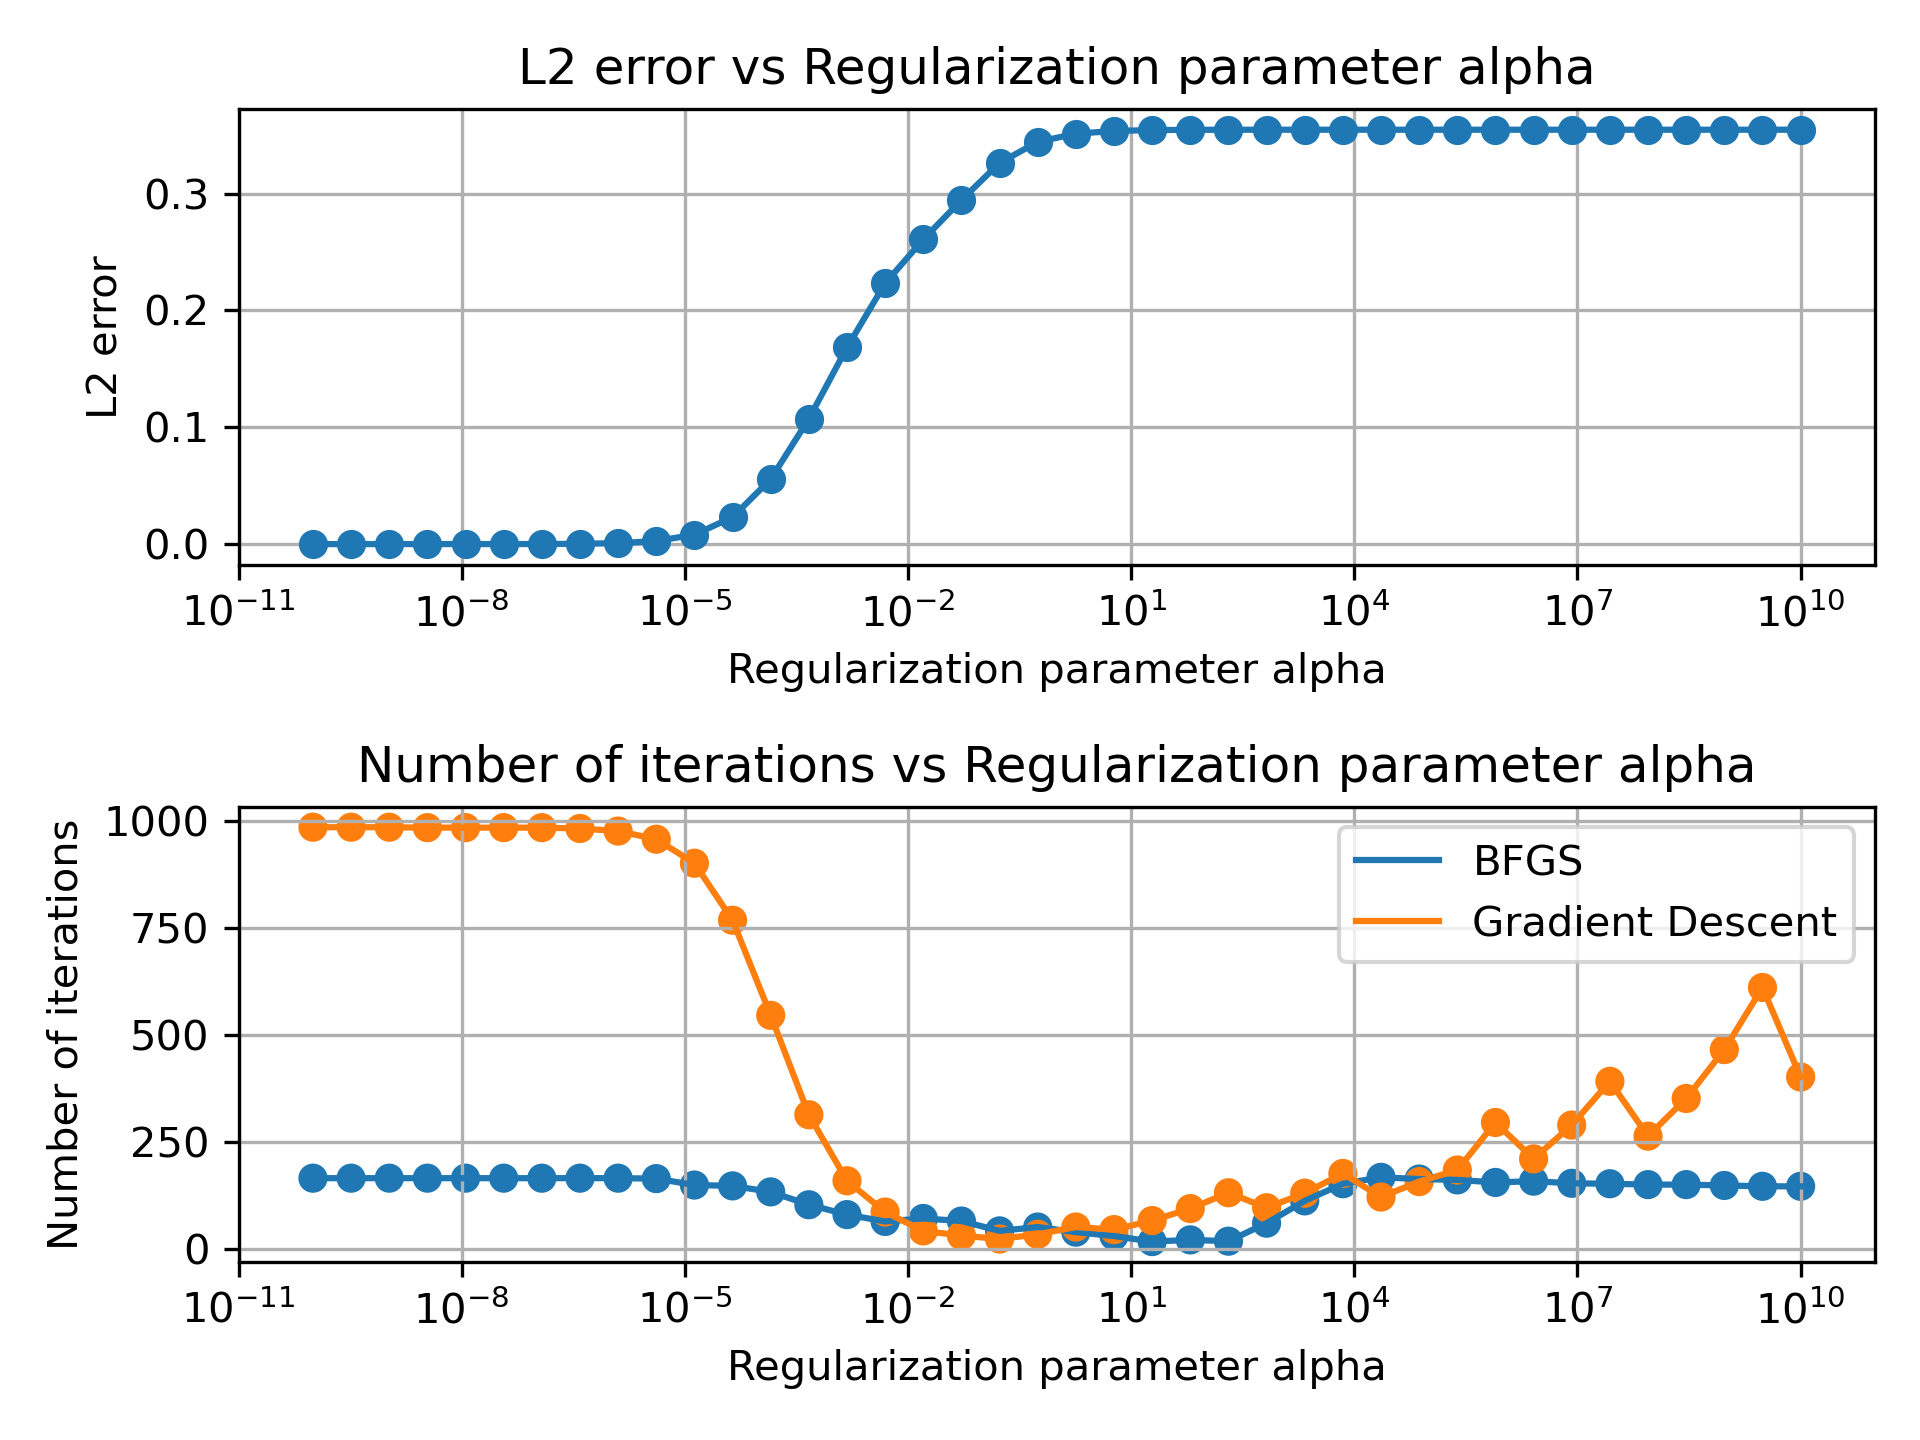
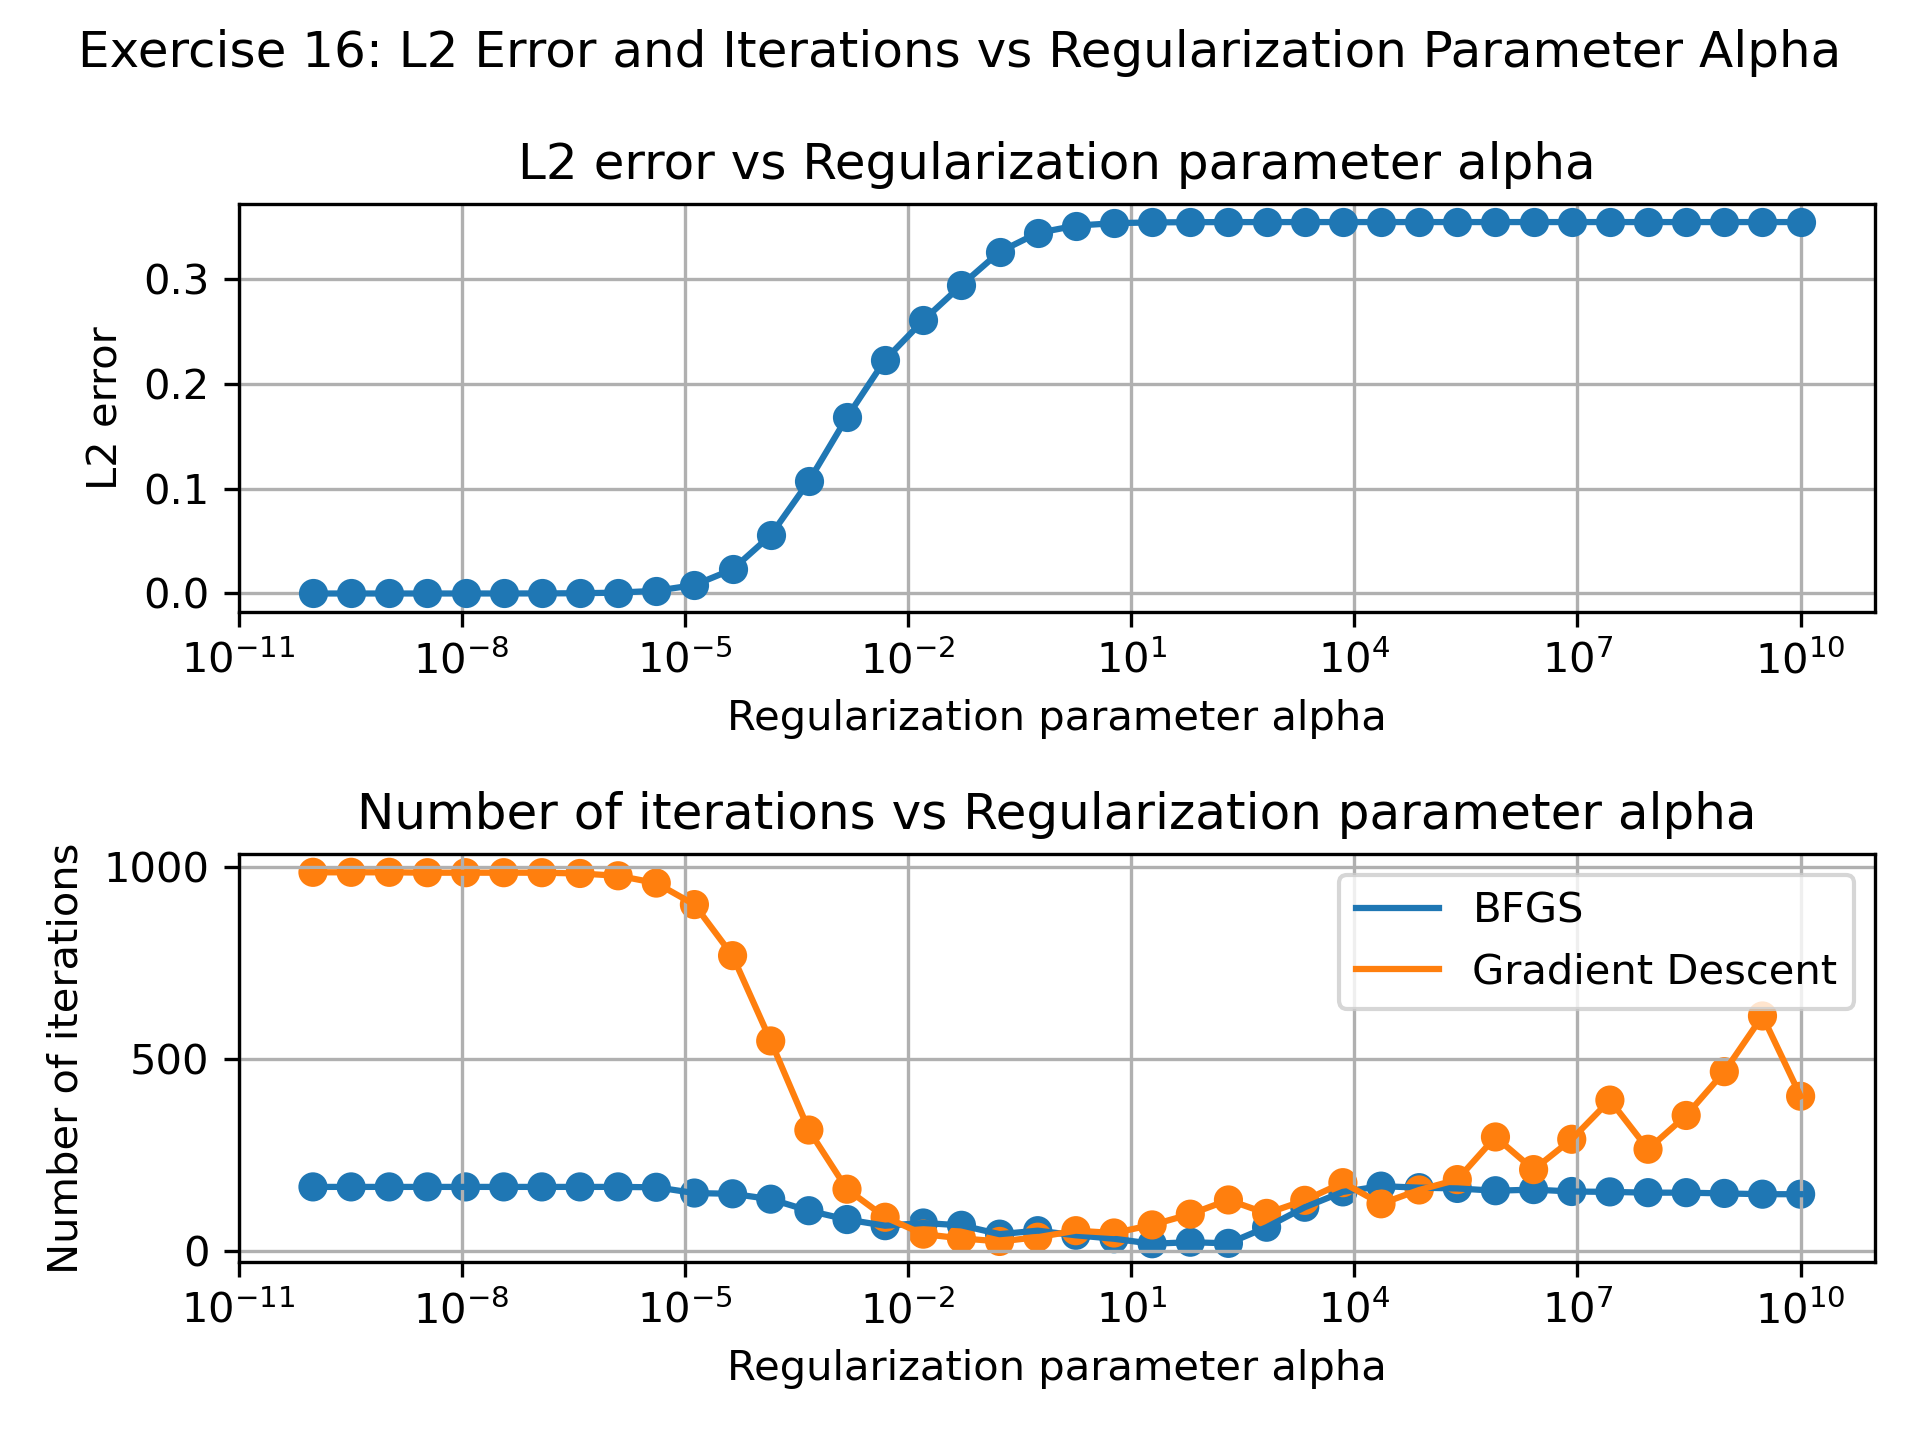
final S2

Changed region(s): [[0.0312, 0.0, 1.0, 0.875]]

diff --git a/Seminars/S1_S2/source_inversion.py b/Seminars/S1_S2/source_inversion.py
@@ -306,7 +306,14 @@ def calculate_and_plot_GD(
         Z = np.reshape(z, X.shape)
 
         fig, axes = plt.subplots(4, 1)
-
+        if do_line_search:
+            plt.suptitle(
+                f"Exercise 13: Gradient descent convergence, line search (step size = {step_size})"
+            )
+        else:
+            plt.suptitle(
+                f"Exercise 13: Gradient descent convergence, fixed step size (step size = {step_size})"
+            )
         im1 = axes[0].pcolormesh(X, Y, Z, shading="auto")
         axes[0].set_xlabel("x")
         axes[0].set_ylabel("y")
@@ -384,10 +391,11 @@ def exercise_12():
 def exercise_13(initial_step_size=5000):
     start = time.time()
     calculate_and_plot_GD(step_size=initial_step_size, plot=True, do_line_search=False)
+    print("\nExercise 13:")
     print(f"Time taken with fixed step size: {time.time() - start:.2f} seconds")
     start = time.time()
     calculate_and_plot_GD(step_size=initial_step_size, plot=True, do_line_search=True)
-    print(f"Time taken with line search: {time.time() - start:.2f} seconds")
+    print(f"Time taken with line search: {time.time() - start:.2f} seconds \n")
 
 
 def BFGS(cost_function, u0, cost_args):
@@ -430,7 +438,7 @@ def exercise_14(plot=True):
         Z = np.reshape(z, X.shape)
 
         fig, axes = plt.subplots(3, 1)
-
+        fig.suptitle("Exercise 14: BFGS Optimization Results")
         im1 = axes[0].pcolormesh(X, Y, Z, shading="auto")
         axes[0].set_xlabel("x")
         axes[0].set_ylabel("y")
@@ -471,8 +479,16 @@ def exercise_15():
     u_exact = exact_solution(z, alpha, sbp_discr)
     y_exact = sbp_discr["poisson_solver"](u_exact)
 
-    BFGS_result = BFGS(cost_funtion, u0, (z, alpha, sbp_discr))
-    u_sol = BFGS_result.x
+    y_sol, u_sol, _, _, _ = gradient_descent(
+        u0,
+        z,
+        alpha,
+        sbp_discr,
+        perform_line_search=True,
+        step_size=1e3,
+        tolerance=1e-4,
+        num_iterations=1e4,
+    )
     y_sol = sbp_discr["poisson_solver"](u_sol)
 
     # Plotting the results
@@ -486,6 +502,7 @@ def exercise_15():
     Y_diff = np.reshape(abs(Y_sol - Y_exact), X.shape)
 
     fig, axes = plt.subplots(4, 1)
+    fig.suptitle("Exercise 15: Comparison of Exact and Gradient Descent Solutions")
 
     im2 = axes[0].pcolormesh(X, Y, U_exact, shading="auto")
     axes[0].set_xlabel("x")
@@ -502,13 +519,13 @@ def exercise_15():
     im4 = axes[2].pcolormesh(X, Y, U_diff, shading="auto")
     axes[2].set_xlabel("x")
     axes[2].set_ylabel("y")
-    axes[2].set_title("|U_BFGS - U_exact|")
+    axes[2].set_title("|U_GD - U_exact|")
     fig.colorbar(im3, ax=axes[2])
 
     im4 = axes[3].pcolormesh(X, Y, Y_diff, shading="auto")
     axes[3].set_xlabel("x")
     axes[3].set_ylabel("y")
-    axes[3].set_title("|Y_BFGS - Y_exact|")
+    axes[3].set_title("|Y_GD - Y_exact|")
     fig.colorbar(im4, ax=axes[3])
 
     plt.tight_layout()
@@ -549,6 +566,7 @@ def exercise_16(alpha=1e-4, plot=True):
         Diff = np.reshape(abs(Y_exact - Z), X.shape)
 
         fig, axes = plt.subplots(4, 1)
+
         im0 = axes[0].pcolormesh(X, Y, Z, shading="auto")
         axes[0].set_xlabel("x")
         axes[0].set_ylabel("y")
@@ -573,13 +591,15 @@ def exercise_16(alpha=1e-4, plot=True):
         axes[3].set_title("|Y_exact - Z| ")
         fig.colorbar(im3, ax=axes[3])
 
-        plt.suptitle(f"Alpha = {alpha}, L2 error = {l2_error:.2e}")
+        plt.suptitle(
+            f"Exercise 16: Comparison of Exact and BFGS Solutions (Alpha = {alpha}, L2 error = {l2_error:.2e})"
+        )
         plt.tight_layout()
 
     return l2_error, iterations_BFGS, converged_BFGS, iterations_GD, converged_GD
 
 
-def exercise_16_sweep(alphas = [10**(i) for i in range(-6, 6)]):
+def exercise_16_sweep(alphas=[10 ** (i) for i in range(-6, 6)]):
     L2_Errors = []
     BFGS_results = []
     GD_results = []
@@ -594,6 +614,9 @@ def exercise_16_sweep(alphas = [10**(i) for i in range(-6, 6)]):
 
     # Plots
     fig, axes = plt.subplots(2, 1)
+    fig.suptitle(
+        "Exercise 16: L2 Error and Iterations vs Regularization Parameter Alpha"
+    )
     axes[0].semilogx(alphas, L2_Errors, marker="o")
     axes[0].set_xlabel("Regularization parameter alpha")
     axes[0].set_ylabel("L2 error")
@@ -606,7 +629,9 @@ def exercise_16_sweep(alphas = [10**(i) for i in range(-6, 6)]):
     gd_colors = ["tab:orange" if res[1] else "tab:red" for res in GD_results]
 
     axes[1].semilogx(alphas, bfgs_iterations, label="BFGS", color="tab:blue")
-    axes[1].semilogx(alphas, gd_iterations, label="Gradient Descent", color="tab:orange")
+    axes[1].semilogx(
+        alphas, gd_iterations, label="Gradient Descent", color="tab:orange"
+    )
     axes[1].scatter(alphas, bfgs_iterations, c=bfgs_colors, marker="o")
     axes[1].scatter(alphas, gd_iterations, c=gd_colors, marker="o")
     axes[1].set_xlabel("Regularization parameter alpha")
@@ -647,7 +672,7 @@ if __name__ == "__main__":
     ########################## Seminar 2 ###########################
 
     # Exercise 13:
-    # exercise_13()
+    exercise_13()
 
     # Sometimes the line search takes longer, but it can also lead to faster convergence in terms of iterations. For some big initial step sizes, line search can lead to convergence where fixed step size does not converge. For smaller initial step sizes, line search can lead to slower convergence in terms of iterations, but it can also lead to faster convergence in terms of time.
     # The line search adapts the step size based on the local landscape of the cost function, which can be beneficial in cases where a fixed step size might be too large or too small.
@@ -655,18 +680,18 @@ if __name__ == "__main__":
     # Efficiency: Every backtracking step requires evaluating the cost function = solving PDE. But evaluating gradient involves solving PDE twice.
 
     # Exercise 14:
-    # exercise_14()
+    exercise_14()
     # BFGS is way better than gradient descent for this problem.
 
     # Exercise 15:
-    # exercise_15()
+    exercise_15()
     # Similar results
 
     # Exercise 16:
     alphas = np.logspace(-10, 10, 40)  # Regularization parameters from 10^-6 to 10^6
-    # exercise_16_sweep(alphas)
-    # exercise_16(alpha=1e-10, plot=True)
-    # exercise_16(alpha=1e-5, plot=True)
-    # exercise_16(alpha=1e7, plot=True)
+    exercise_16_sweep(alphas)
+    exercise_16(alpha=1e-10, plot=True)
+    exercise_16(alpha=1e-5, plot=True)
+    exercise_16(alpha=1e7, plot=True)
 
     plt.show()

diff --git a/Seminars/S1_S2/medium_inversion.py b/Seminars/S1_S2/medium_inversion.py
@@ -209,6 +209,10 @@ def exercise_22(mx=21, my=21, plot=True):
     final_discr = pd.assemble_matrices(grid, order, b_sol, bc_opts)
     y_sol = final_discr["poisson_solver"](b_sol)
 
+
+    print("Minimum b:", np.min(b_sol))
+    print("Maximum b:", np.max(b_sol))
+    print("Constraint b > 0 satisfied:", np.all(b_sol > 0))
     # Plotting the results
     if plot:
         X, Y = grid["X"], grid["Y"]
